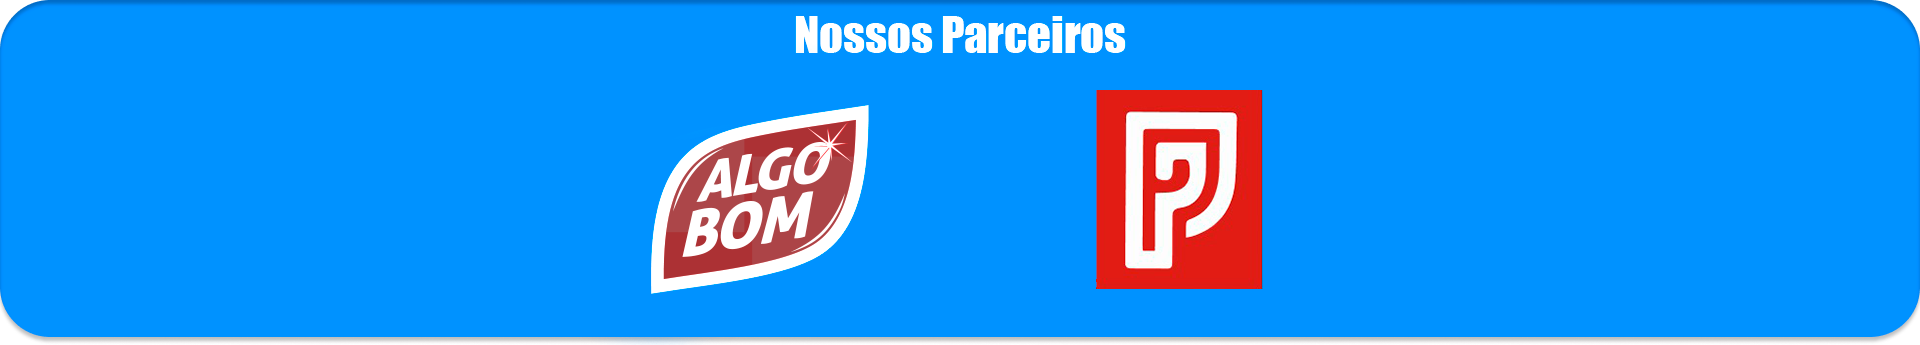
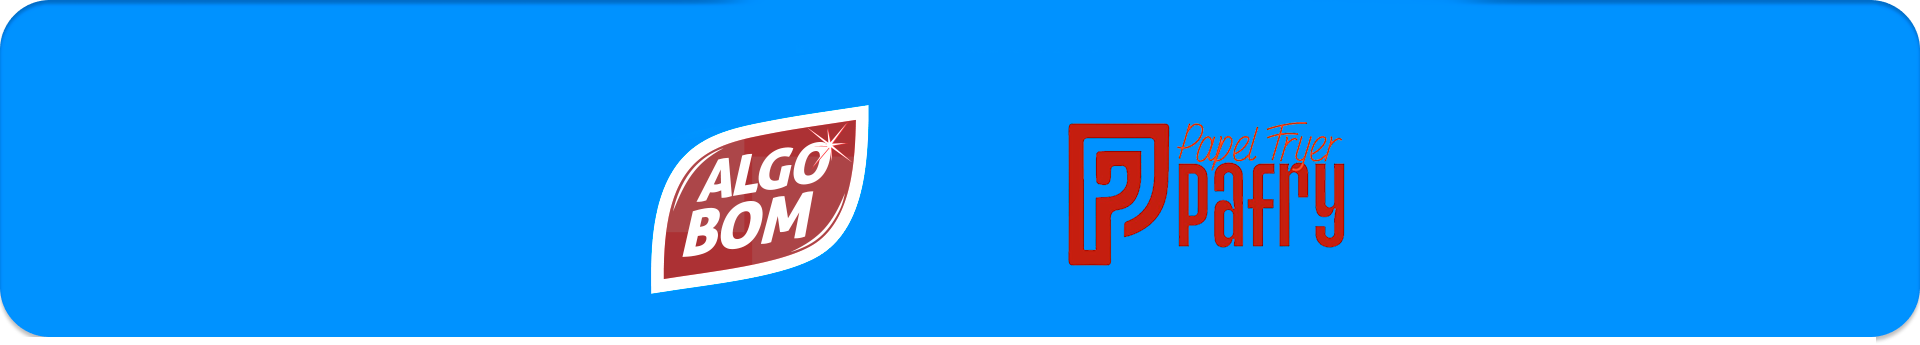
Add files via upload

Changed region(s): [[0.5312, 0.2609, 0.7188, 0.8406], [0.0, 0.9565, 0.9688, 1.0], [0.375, 0.0, 0.7812, 0.1739]]

diff --git a/index.html b/index.html
@@ -163,10 +163,11 @@
             margin-top: 15px;
             transition: background 0.3s ease;
             display: inline-block;
-            /* Removido width fixo de 414px para não estourar a tela no mobile */
             width: 100%; 
             white-space: normal;
             word-break: break-word;
+            text-shadow: 1px 1px 3px rgba(0, 0, 0, 0.3);
+            box-shadow: 0px 5px 9px 14px rgba(0, 0, 0, 0.3);
         }
 
         .form-container button:hover {
@@ -229,12 +230,34 @@
 
         /* Seção de Parceiros */
         .partners-section {
+            position: relative;
             padding: 5px 0px;
-            height: 360px;
+            height: 345px;
             background: url(parceiros.png) no-repeat center center;
-            background-size: initial;
-            width: 100%;
+            background-size: cover;
+            width: 102%;
             margin-left: 0%;
+            display: flex;
+            justify-content: center;
+            align-items: flex-start;
+        }
+
+        .partners-text {
+            position: absolute;
+            top: 20px; /* Ajuste a distância do topo conforme necessário */
+            left: 50%;
+            transform: translateX(-50%);
+            padding: 10px 20px;
+            border-radius: 8px;
+            text-align: center;
+            z-index: 1;
+        }
+
+        .partners-text h2 {
+            font-size: 2rem; /* Ajuste o tamanho da fonte conforme necessário */
+            color: white; /* Cor do texto */
+            margin: 0;
+            font-family: 'League Spartan', 'Stolzl', sans-serif; /* Mantém a consistência das fontes */
         }
 
         /* Seção de Contato */
@@ -509,6 +532,10 @@
 
             }
 
+            .partners-text h2 {
+                font-size: 1rem;
+            }
+
             .contact-section {
                 flex-direction: column;
                 padding: 20px 10px;
@@ -641,7 +668,11 @@
         </div>
     </div>
 
-    <div class="partners-section"></div>
+    <div class="partners-section">
+        <div class="partners-text">
+            <h2>NOSSOS PARCEIROS</h2>
+        </div>
+    </div>
 
     <div class="contact-section" id="contact-section">
         <div class="contact-container">
